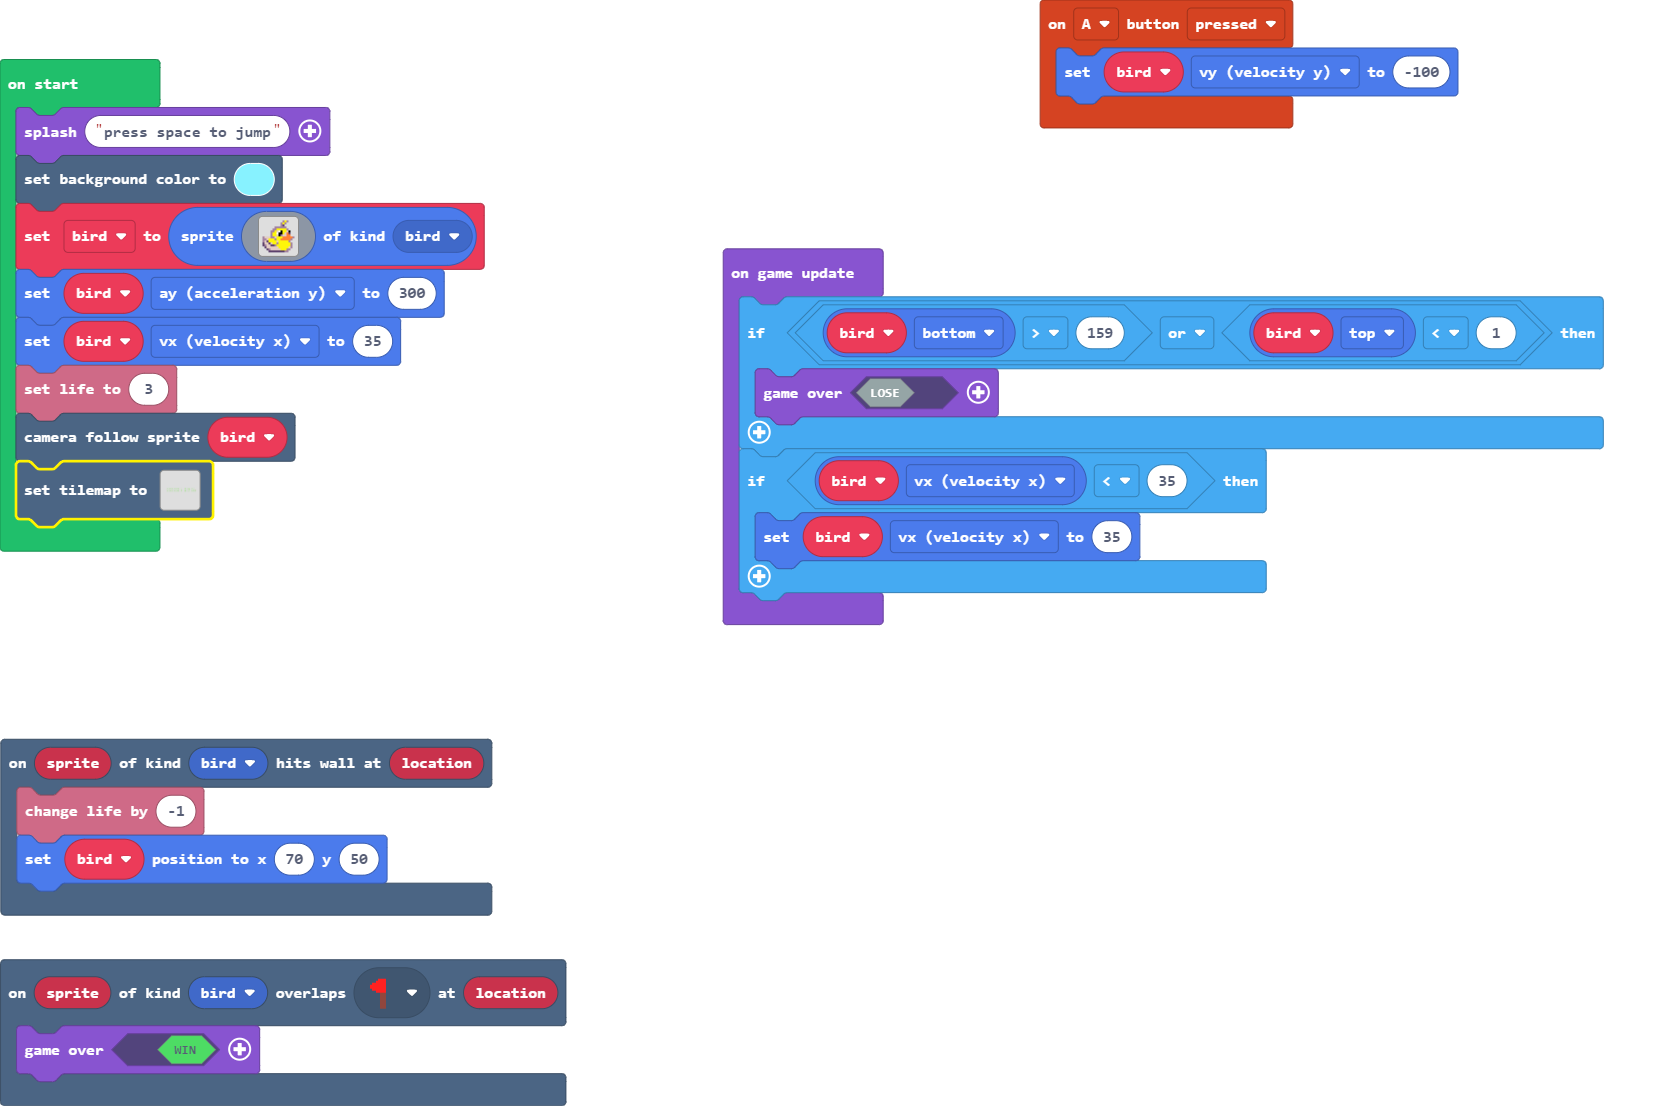
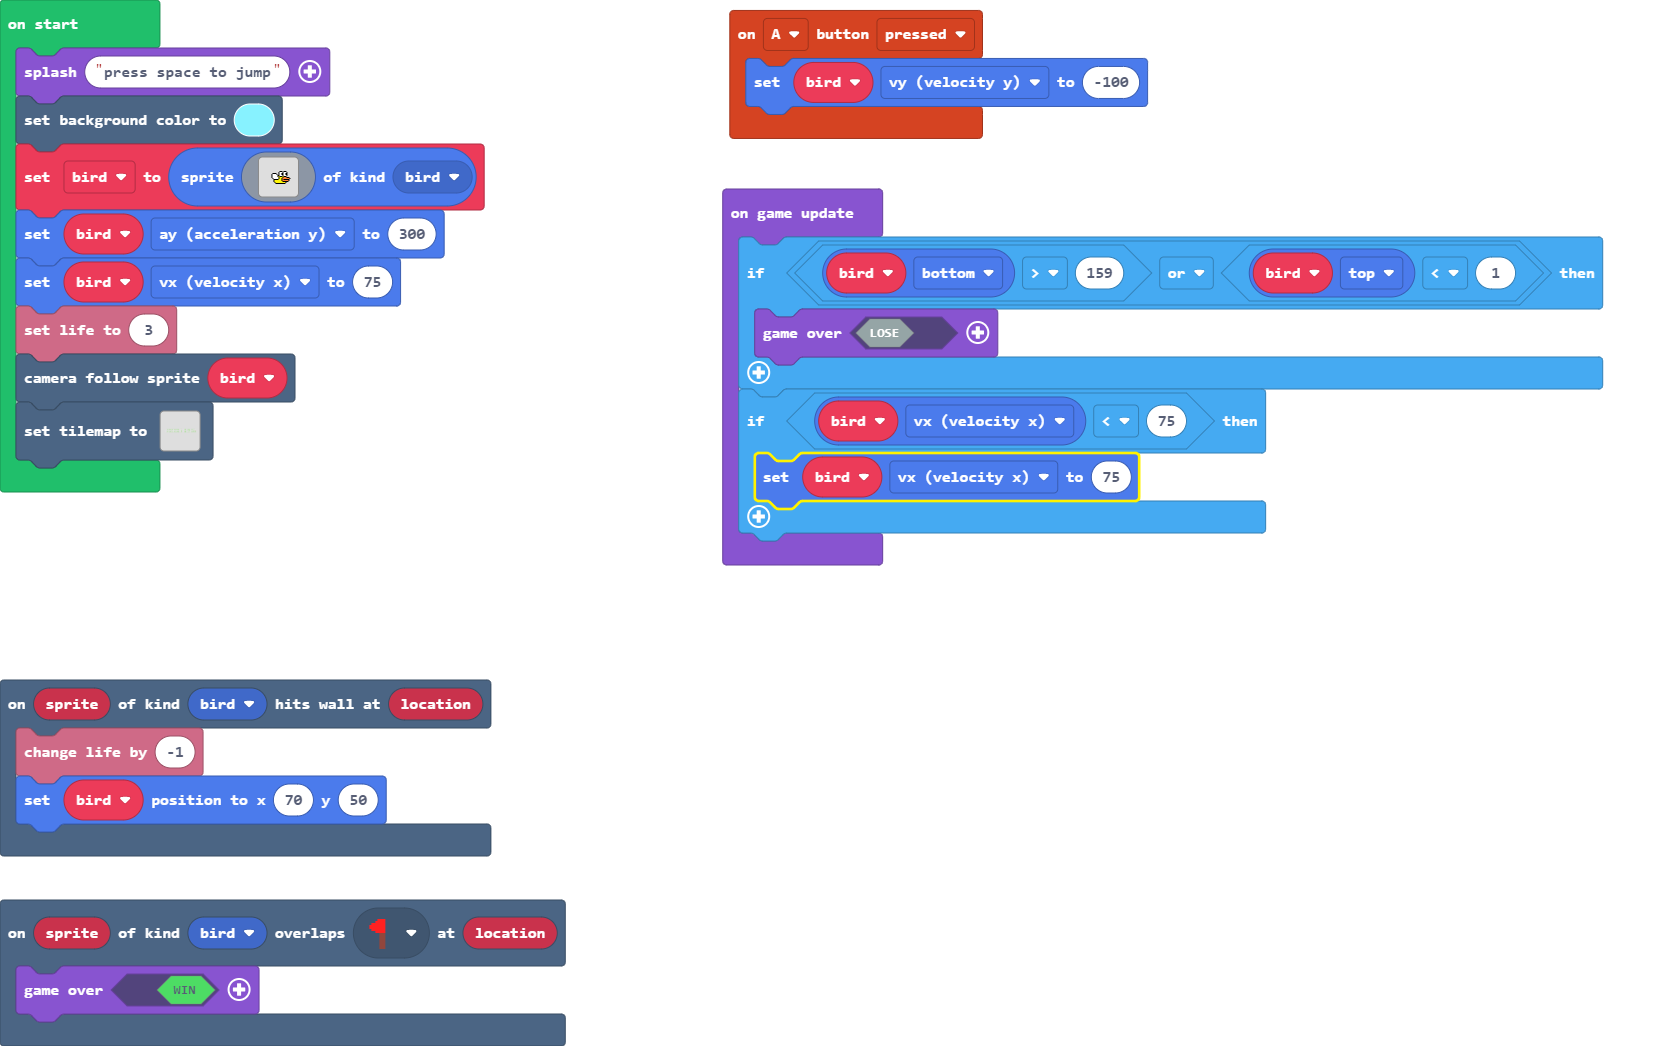
Update main.blocks, main.ts, tilemap.g.jres, tilemap.g.ts

diff --git a/tilemap.g.ts b/tilemap.g.ts
@@ -16,6 +16,14 @@ namespace myTiles {
     export const tile6 = image.ofBuffer(hex``);
     //% fixedInstance jres blockIdentity=images._tile
     export const tile7 = image.ofBuffer(hex``);
+    //% fixedInstance jres blockIdentity=images._tile
+    export const tile8 = image.ofBuffer(hex``);
+    //% fixedInstance jres blockIdentity=images._tile
+    export const tile9 = image.ofBuffer(hex``);
+    //% fixedInstance jres blockIdentity=images._tile
+    export const tile10 = image.ofBuffer(hex``);
+    //% fixedInstance jres blockIdentity=images._tile
+    export const tile11 = image.ofBuffer(hex``);
 
     helpers._registerFactory("tilemap", function(name: string) {
         switch(helpers.stringTrim(name)) {
@@ -31,7 +39,7 @@ namespace myTiles {
 22222222222222222222222222222222222222222222222222
 `, [myTiles.transparency16], TileScale.Sixteen);
             case "level2":
[2 lines of base64/hex data omitted]
 ..........2.....2...2....2......2....2....2..2........2..........2.2.......2...2.......2.....2......
 ..........2.....2...2....2......2....2....2..2...................2.2.......2...2.......2............
 ..........2.....2...2....2......2....2....2..2...................2.2.......2...2.......2............
@@ -42,7 +50,7 @@ namespace myTiles {
 ..........2.....2...2....2......2....2....2..2........2..........2.2...................2.....2....2.
 ..........2.....2...2....2......2....2....2..2........2..........2.2.......2...........2.....2....2.
 ..........2.....2...2....2......2....2....2..2........2..........2.2.......2...2.......2.....2....2.
-`, [myTiles.transparency16,myTiles.tile1,myTiles.tile3,myTiles.tile4,myTiles.tile2], TileScale.Sixteen);
+`, [myTiles.transparency16,myTiles.tile1,myTiles.tile3,myTiles.tile4,myTiles.tile2,myTiles.tile5,myTiles.tile11], TileScale.Sixteen);
         }
         return null;
     })
@@ -64,6 +72,14 @@ namespace myTiles {
             case "tile6":return tile6;
             case "myTile5":
             case "tile7":return tile7;
+            case "myTile6":
+            case "tile8":return tile8;
+            case "myTile7":
+            case "tile9":return tile9;
+            case "myTile8":
+            case "tile10":return tile10;
+            case "myTile9":
+            case "tile11":return tile11;
         }
         return null;
     })

diff --git a/main.ts b/main.ts
@@ -18,25 +18,41 @@ let bird: Sprite = null
 game.splash("press space to jump")
 scene.setBackgroundColor(9)
 bird = sprites.create(img`
-    . . . . . . . . . . b 5 b . . . 
-    . . . . . . . . . b 5 b . . . . 
-    . . . . . . . . . b c . . . . . 
-    . . . . . . b b b b b b . . . . 
-    . . . . . b b 5 5 5 5 5 b . . . 
-    . . . . b b 5 d 1 f 5 5 d f . . 
-    . . . . b 5 5 1 f f 5 d 4 c . . 
-    . . . . b 5 5 d f b d d 4 4 . . 
-    b d d d b b d 5 5 5 4 4 4 4 4 b 
-    b b d 5 5 5 b 5 5 4 4 4 4 4 b . 
-    b d c 5 5 5 5 d 5 5 5 5 5 b . . 
-    c d d c d 5 5 b 5 5 5 5 5 5 b . 
-    c b d d c c b 5 5 5 5 5 5 5 b . 
-    . c d d d d d d 5 5 5 5 5 d b . 
-    . . c b d d d d d 5 5 5 b b . . 
-    . . . c c c c c c c c b b . . . 
+    ................................
+    ................................
+    ................................
+    ................................
+    ................................
+    ................................
+    ................................
+    ................................
+    ................................
+    ................................
+    .................fff.fff........
+    ................f111f111f.......
+    ..........ffff..f11ff11ff.......
+    .........f1111f.f11ff11ff.......
+    .........f11111ff111f111f.......
+    .........f11111f5fff5fff........
+    .........f111111f555f444fff.....
+    ..........f11111f55f4444444f....
+    ...........fffff555f4ffffff.....
+    ...........f5555555f444444f.....
+    ...........f55555555ffffff......
+    ............f5555555555f........
+    .............ffffffffff.........
+    ................................
+    ................................
+    ................................
+    ................................
+    ................................
+    ................................
+    ................................
+    ................................
+    ................................
     `, SpriteKind.bird)
 bird.ay = 300
-bird.vx = 35
+bird.vx = 75
 info.setLife(3)
 scene.cameraFollowSprite(bird)
 tiles.setTilemap(tilemap`level2`)
@@ -44,7 +60,7 @@ game.onUpdate(function () {
     if (bird.bottom > 159 || bird.top < 1) {
         game.over(false)
     }
-    if (bird.vx < 35) {
-        bird.vx = 35
+    if (bird.vx < 75) {
+        bird.vx = 75
     }
 })
